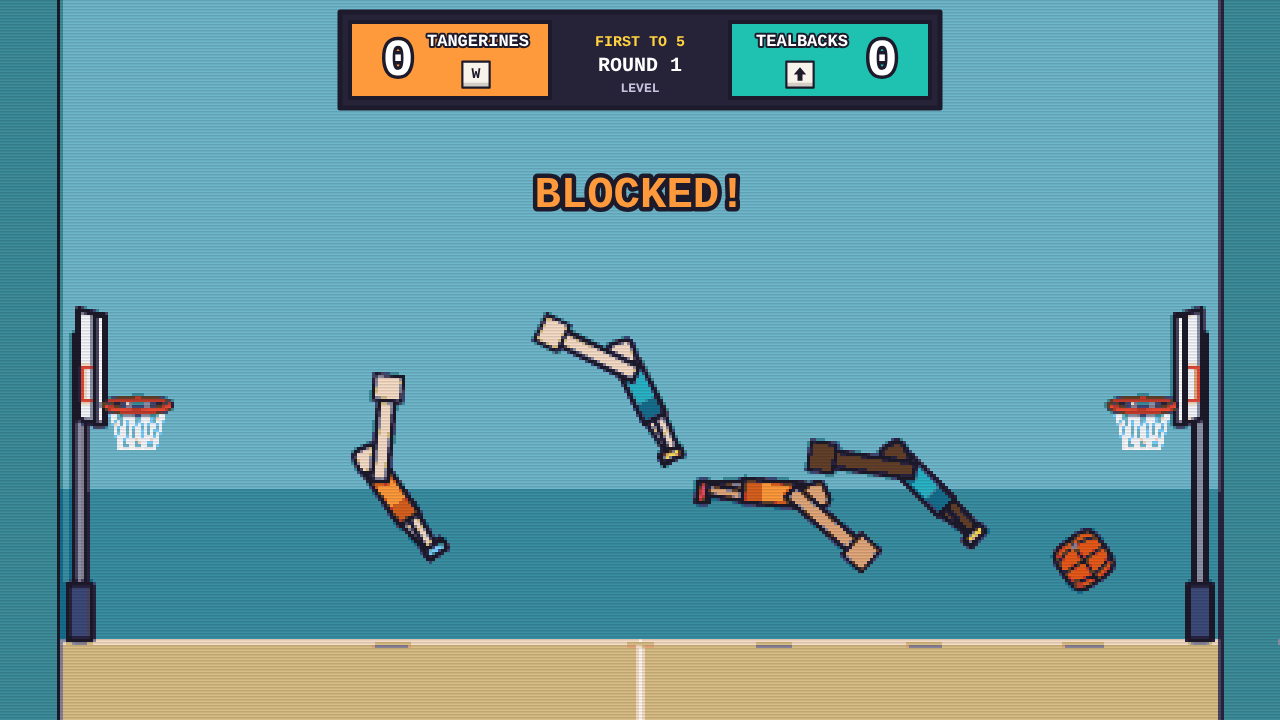
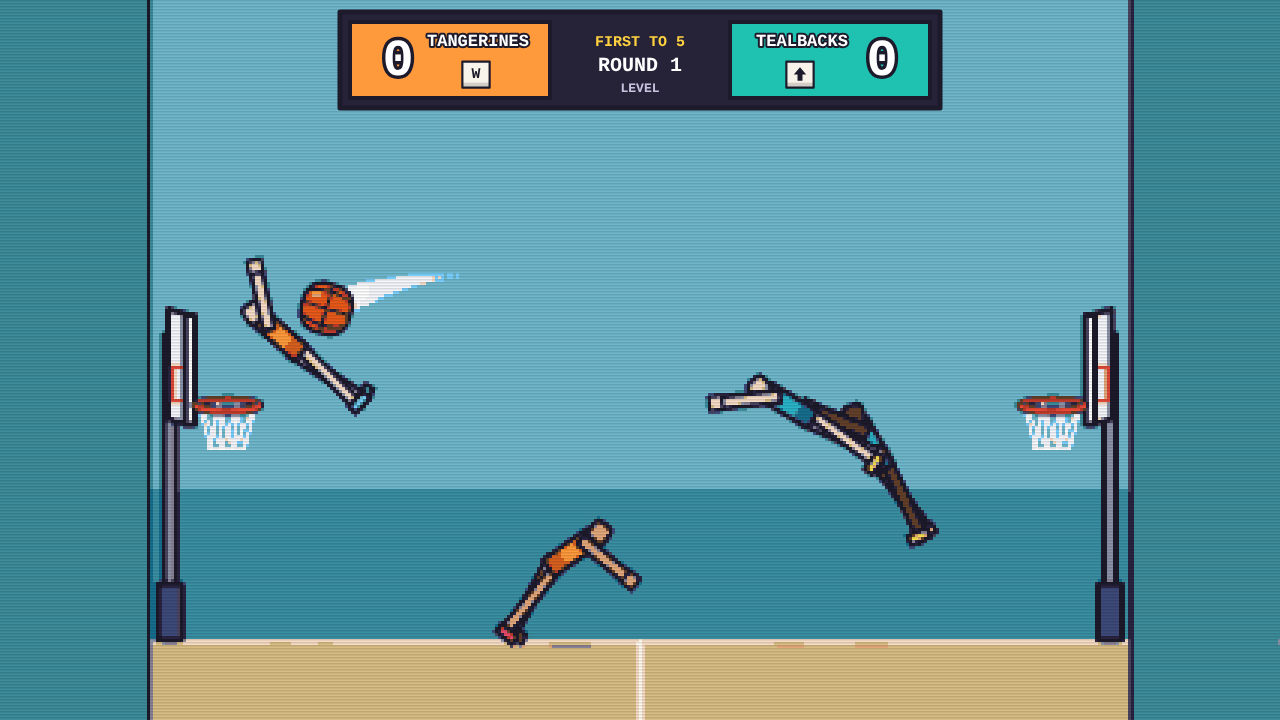
iteration 4: 6ft6 proportions, rounder ball, narrower court; iteration 2 shots back
Brief: design/game-brief.md

Also: shorter arms (+4 in wingspan), smaller hands, hoop size held at 65 px.

Claude-Session: https://claude.ai/code/session_01JSgNr6WUAfnQ9VaCvmLX1X

diff --git a/prototypes/flop-hoops/config.js b/prototypes/flop-hoops/config.js
@@ -33,15 +33,15 @@ window.CONFIG = {
   regrab_delay: { value: 0.4, min: 0, max: 1.5, step: 0.05 },   // s before a player who let go can grab again
   belly_margin: { value: 6, min: 0, max: 30, step: 1 },          // px the abdomen catch reaches past the torso
   hand_box: { value: 78, min: 20, max: 120, step: 2 },          // px side of the square catch box around each hand
-  shot_charge_time: { value: 1, min: 0.2, max: 2.5, step: 0.05 }, // s of holding to reach full shot power
+  shot_charge_time: { value: 1.0, min: 0.2, max: 2.5, step: 0.05 }, // s of holding to reach full shot power
   hold_max: { value: 4, min: 1, max: 6, step: 0.1 },          // s a ball can be held before it fires itself
-  shot_vx_min: { value: 3, min: 0, max: 15, step: 0.5 },      // px/step forward speed on a quick release
-  shot_vx_max: { value: 13, min: 4, max: 24, step: 0.5 },       // px/step forward speed fully cocked
-  shot_vy_min: { value: 9.5, min: 4, max: 20, step: 0.5 },       // px/step upward speed on a quick release
-  shot_vy_max: { value: 11, min: 4, max: 22, step: 0.5 },       // px/step upward speed fully cocked (barely more)
-  fade_vy_bonus: { value: 2, min: 0, max: 8, step: 0.5 },     // px/step extra loft on a fadeaway
+  shot_vx_min: { value: 3.5, min: 0, max: 15, step: 0.5 },      // px/step forward speed on a quick release
+  shot_vx_max: { value: 14, min: 4, max: 24, step: 0.5 },       // px/step forward speed fully cocked
+  shot_vy_min: { value: 11, min: 4, max: 20, step: 0.5 },       // px/step upward speed on a quick release
+  shot_vy_max: { value: 13, min: 4, max: 22, step: 0.5 },       // px/step upward speed fully cocked (barely more)
+  fade_vy_bonus: { value: 2.5, min: 0, max: 8, step: 0.5 },     // px/step extra loft on a fadeaway
   fade_vx_mul: { value: 0.9, min: 0.5, max: 1.3, step: 0.05 },  // fadeaway forward speed multiplier
-  shot_tilt: { value: 0.15, min: 0, max: 1.5, step: 0.05 },      // how much body lean bends the arc
+  shot_tilt: { value: 0.5, min: 0, max: 1.5, step: 0.05 },      // how much body lean bends the arc
   shot_assist: { value: 0.25, min: 0, max: 1, step: 0.05 },     // pull toward a speed that reaches the rim
   fade_assist: { value: 0.6, min: 0, max: 1, step: 0.05 },      // a fadeaway's extra aim help
   fade_speed: { value: 0.8, min: 0, max: 5, step: 0.1 },        // px/step drifting away from the hoop that counts
@@ -68,11 +68,13 @@ window.CONFIG = {
   rock_follow: { value: 0.6, min: 0.05, max: 1, step: 0.05 },   // how tightly a planted body tracks its swing
   getup_time: { value: 0.7, min: 0.1, max: 3, step: 0.05 },     // s lying down before springing back up
   getup_pop: { value: 7, min: 0, max: 15, step: 0.5 },          // px/step upward pop when getting up
-  body_width: { value: 24, min: 12, max: 50, step: 1 },         // px torso width
+  body_width: { value: 20, min: 12, max: 50, step: 1 },         // px torso width
   limb_width: { value: 11, min: 5, max: 20, step: 1 },          // px leg width (arms are 0.8 of it)
-  arm_width: { value: 16, min: 6, max: 30, step: 1 },           // px arm thickness
-  head_size: { value: 14, min: 8, max: 30, step: 1 },           // px head half-size
-  arm_length: { value: 92, min: 40, max: 140, step: 2 },        // px arm length
+  arm_width: { value: 12, min: 6, max: 30, step: 1 },           // px arm thickness
+  head_size: { value: 11, min: 8, max: 30, step: 1 },           // px head half-size
+  arm_length: { value: 64, min: 40, max: 140, step: 2 },        // px shoulder to fingertip: an 82" wingspan less the shoulders, halved
+  torso_length: { value: 54, min: 30, max: 90, step: 1 },       // px hip to shoulder (a 6 ft 6 in player at about 2 px per inch)
+  leg_length: { value: 88, min: 40, max: 120, step: 1 },        // px floor to hip
   upright_damp: { value: 3.5, min: 0, max: 15, step: 0.5 },    // 1/s damping on torso spin
   leg_stiffness: { value: 0.22, min: 0, max: 1, step: 0.01 },  // how hard legs swing back under the hips
   leg_follow: { value: 0.3, min: 0, max: 1, step: 0.05 },      // 0 floppy legs, 1 rigid legs
@@ -83,6 +85,7 @@ window.CONFIG = {
 
   // ---- Ball ----
   ball_radius: { value: 25, min: 16, max: 60, step: 1 },       // px
+  ball_shape: { value: 2.6, min: 2, max: 5, step: 0.1 },        // ball outline exponent: 2 round, 4 squircle
   ball_bounce: { value: 0.8, min: 0.3, max: 0.98, step: 0.01 },// restitution
   ball_mass: { value: 1.3, min: 0.3, max: 5, step: 0.1 },      // Matter mass units
   ball_kick: { value: 2.6, min: 0, max: 8, step: 0.1 },        // px/step extra pop off any body hit
@@ -93,9 +96,9 @@ window.CONFIG = {
   drop_height: { value: 430, min: 200, max: 520, step: 10 },   // px above the floor the ball drops from
 
   // ---- Court ----
-  court_width: { value: 1160, min: 900, max: 1240, step: 10 }, // px
+  court_width: { value: 980, min: 900, max: 1240, step: 10 }, // px
   rim_height: { value: 235, min: 200, max: 420, step: 5 },     // px from floor to rim
-  rim_span_min: { value: 58, min: 60, max: 160, step: 2 },     // px rim opening (grows with the ball)
+  rim_span_min: { value: 65, min: 60, max: 160, step: 2 },     // px rim opening (grows with the ball)
   rim_ball_ratio: { value: 1.3, min: 1.05, max: 2, step: 0.05 }, // rim opening as a multiple of the ball's width
   board_height: { value: 110, min: 60, max: 200, step: 5 },    // px backboard height
   board_inset: { value: 40, min: 20, max: 120, step: 2 },      // px from side wall to backboard

diff --git a/prototypes/flop-hoops/js/physics.js b/prototypes/flop-hoops/js/physics.js
@@ -27,12 +27,15 @@ const Physics = (() => {
       { isStatic: true, friction: 0.8, restitution: 0.1, collisionFilter: staticFilter }, extra)), kind);
   }
 
-  /** Points of a squircle (superellipse, exponent 4) of half-size r, for the ball's body and drawing. */
-  function squircle(r, n = 28) {
-    const pts = [];
+  /**
+   * Points of a superellipse of half-size r: exponent e = 2 is a circle, 4 a squircle. Used for
+   * the ball's body and for drawing the ball and heads.
+   */
+  function squircle(r, n = 28, e = 4) {
+    const pts = [], k = 2 / e;
     for (let i = 0; i < n; i++) {
       const t = (i / n) * Math.PI * 2, c = Math.cos(t), s = Math.sin(t);
-      pts.push({ x: r * Math.sign(c) * Math.sqrt(Math.abs(c)), y: r * Math.sign(s) * Math.sqrt(Math.abs(s)) });
+      pts.push({ x: r * Math.sign(c) * Math.abs(c) ** k, y: r * Math.sign(s) * Math.abs(s) ** k });
     }
     return pts;
   }
@@ -41,8 +44,8 @@ const Physics = (() => {
   function makePlayer(x, team, idx, S, look, T) {
     const dir = team === 0 ? 1 : -1;
     const d = {
-      torsoW: T.body_width, torsoH: 62 * S.torso, headR: T.head_size * S.head,
-      legL: 52 * S.leg, legW: T.limb_width, armL: T.arm_length * S.arm, armW: T.arm_width,
+      torsoW: T.body_width, torsoH: T.torso_length * S.torso, headR: T.head_size * S.head,
+      legL: T.leg_length * S.leg, legW: T.limb_width, armL: T.arm_length * S.arm, armW: T.arm_width,
     };
     d.headS = d.headR * 1.8;   // squircle head, side length
     const hipY = FLOOR_Y - d.legL + 3;
@@ -120,7 +123,7 @@ const Physics = (() => {
     }
 
     // a squircle ball: it rolls with a slight lumpy wobble
-    w.ball = tag(Bodies.fromVertices(CX, FLOOR_Y - T.drop_height, [squircle(S.ballR)], { restitution: S.bounce,
+    w.ball = tag(Bodies.fromVertices(CX, FLOOR_Y - T.drop_height, [squircle(S.ballR, 28, T.ball_shape)], { restitution: S.bounce,
       friction: 0.05, frictionStatic: 0.1, frictionAir: T.ball_air,
       collisionFilter: { group: 0, category: CAT.BALL, mask: CAT.STATIC | CAT.TEAM0 | CAT.TEAM1 } }), 'ball');
     w.ball.r = S.ballR;
@@ -345,7 +348,7 @@ const Physics = (() => {
     const disc = vy * vy - 2 * g * Y;
     if (X > 30 && disc > 0) vx = lerp(vx, X / ((vy + Math.sqrt(disc)) / g), fade ? T.fade_assist : T.shot_assist);
     // the body's lean turns the throw with it: tipped forward flattens it, leaning back lofts it
-    const tilt = clamp(a * T.shot_tilt, -0.25, 0.25), ct = Math.cos(tilt), st = Math.sin(tilt);
+    const tilt = a * T.shot_tilt, ct = Math.cos(tilt), st = Math.sin(tilt);
     const x0 = vx * p.dir, y0 = -vy;
     release(w, T, 0.2);
     Body.setVelocity(ball, { x: x0 * ct - y0 * st + p.torso.velocity.x * 0.25, y: x0 * st + y0 * ct });

diff --git a/prototypes/flop-hoops/js/render.js b/prototypes/flop-hoops/js/render.js
@@ -101,8 +101,8 @@ const Render = (() => {
   }
 
   /** A squircle path (superellipse, exponent 4) of half-size r around the origin. */
-  function squirclePath(ctx, r) {
-    const pts = Physics.squircle(r, 32);
+  function squirclePath(ctx, r, e = 4) {
+    const pts = Physics.squircle(r, 32, e);
     ctx.beginPath(); pts.forEach((q, i) => i ? ctx.lineTo(q.x, q.y) : ctx.moveTo(q.x, q.y)); ctx.closePath();
   }
 
@@ -136,7 +136,7 @@ const Render = (() => {
 
     ctx.save(); ctx.translate(A.x, A.y); ctx.rotate(A.a);
     ctx.beginPath(); ctx.rect(-d.armW / 2, -d.armL / 2, d.armW, d.armL); ink(ctx, look.skin, 5);
-    ctx.beginPath(); ctx.rect(-d.armW * 0.9, d.armL / 2 - d.armW * 0.7, d.armW * 1.8, d.armW * 1.6); ink(ctx, look.skin, 4);
+    ctx.beginPath(); ctx.rect(-d.armW * 0.6, d.armL / 2 - d.armW * 0.5, d.armW * 1.2, d.armW * 1.1); ink(ctx, look.skin, 4); // a small hand
     ctx.restore();
   }
 
@@ -145,8 +145,9 @@ const Render = (() => {
   function ball(ctx, x, y, r, a, withShadow = true) {
     if (withShadow) shadow(ctx, x, y, r);
     ctx.save(); ctx.translate(x, y); ctx.rotate(a);
-    squirclePath(ctx, r); ink(ctx, '#e8591a', Math.max(4, r * 0.18));
-    squirclePath(ctx, r - 1); ctx.save(); ctx.clip();
+    const e = CONFIG.ball_shape.value;
+    squirclePath(ctx, r, e); ink(ctx, '#e8591a', Math.max(4, r * 0.18));
+    squirclePath(ctx, r - 1, e); ctx.save(); ctx.clip();
     ctx.strokeStyle = INK; ctx.lineWidth = Math.max(3, r * 0.12);
     ctx.beginPath(); ctx.moveTo(-r, 0); ctx.lineTo(r, 0); ctx.moveTo(0, -r); ctx.lineTo(0, r);
     ctx.moveTo(-r * 0.45, -r); ctx.quadraticCurveTo(-r * 0.95, 0, -r * 0.45, r);

diff --git a/design/game-brief.md b/design/game-brief.md
@@ -21,6 +21,9 @@ After play: create a hitbox that surrounds the hand of the character, if more th
 
 After play: shorten the height of the rims, and remove all modifiers. make the heads smaller. make it much more retro without as much detail, specifically the background, keep it simplistic like the jerseys. have the ball have a white trail on firing. The trail should be a rainbow if it is perfectly alligned with the goal. Make the firing a bit slower, and the arms beefier now. allow for backwards swinging, the characters should be pivoting off their foot, but swinging both left to right, not only middle to right and slowly slowing down, it should never be slowing down. add some more features you deem fit. the characters are not picking up the balls consistently currently.
 
+After play: make the ball rounder, the hands smaller, the arms shorter, make the court smaller, basketball hoop is of good size. bring ball mechanics back to what they were like earlier. make the human proportions seem to be of someone of about 6'6 height, with +4 wingspan.
+Answer: Which earlier ball mechanics: Iteration 2 shots.
+
 **Pitch:** Two wobbly ragdoll ballers a side, one jump key each, swinging on their feet and hurling a squircle ball.
 
 **Genre:** arcade sports (floppy physics sport)
@@ -34,7 +37,7 @@ After play: shorten the height of the rims, and remove all modifiers. make the h
 **Intent:** needs 2 players *(you said)*
 
 ## Look and references
-- Look: really retro: the court drawn at low resolution, snapped to each round's small palette and scaled up under scanlines, with a monospace square-cornered HUD; flat plain backgrounds (sky, one horizon band, floor, centre line); slim faceless characters with small squircle heads, long beefy arms and plain shirts; a squircle ball with a white trail when fired (rainbow on a perfect line); small, low hoops; thick dark outlines; tangerine vs teal teams; a bright orange seamed ball; each round a new venue (school gym, dusk rooftop, beach, night street court) in its own two-tone palette, background darker and calmer than play; signature: the rainbow trail of a perfectly lined-up shot. Every figure drawn, no emoji, no plain circles. *(inferred (strong))*
+- Look: really retro: the court drawn at low resolution, snapped to each round's small palette and scaled up under scanlines, with a monospace square-cornered HUD; flat plain backgrounds (sky, one horizon band, floor, centre line); slim faceless characters built like a 6 ft 6 in player with a +4 in wingspan (long legs, small squircle heads, small hands, plain shirts); a rounded ball with a white trail when fired (rainbow on a perfect line); hoops kept at their size (65 px rim, 10 ft high) on a narrower court; thick dark outlines; tangerine vs teal teams; a bright orange seamed ball; each round a new venue (school gym, dusk rooftop, beach, night street court) in its own two-tone palette, background darker and calmer than play; signature: the rainbow trail of a perfectly lined-up shot. Every figure drawn, no emoji, no plain circles. *(inferred (strong))*
 - References: the floppy one-button basketball genre (Basket Random and others) for its feel only: one-key jumps, ragdoll chaos, random rounds.
 - View: 2D side view · Camera: static, whole court visible, scaled to the window.
 
@@ -66,6 +69,7 @@ Every touch is contested from second one: the skill is timing your hop against t
 - [x] Dunks near the rim, fadeaways when drifting or leaning away, blocks and steals by defenders
 - [x] Only opponents collide; teammates pass through each other
 - [x] Planted players pivot on their feet, swinging evenly forward and back at a beat that never fades; fallen players get back up
+- [x] Shots as in iteration 2: forward 3.5-14, up 11-13, 1 s cock-back, body lean bends the throw
 - [x] Slower game speed; players eased apart so they never pile into one blob
 - [x] Fired ball trail: white, rainbow with a PERFECT! callout when lined up with the rim
 - [x] SWISH and PERFECT SWISH baskets; HUSTLE higher jumps for a team 2+ points behind; pickup flash

diff --git a/prototypes/flop-hoops/brief.md b/prototypes/flop-hoops/brief.md
@@ -21,6 +21,9 @@ After play: create a hitbox that surrounds the hand of the character, if more th
 
 After play: shorten the height of the rims, and remove all modifiers. make the heads smaller. make it much more retro without as much detail, specifically the background, keep it simplistic like the jerseys. have the ball have a white trail on firing. The trail should be a rainbow if it is perfectly alligned with the goal. Make the firing a bit slower, and the arms beefier now. allow for backwards swinging, the characters should be pivoting off their foot, but swinging both left to right, not only middle to right and slowly slowing down, it should never be slowing down. add some more features you deem fit. the characters are not picking up the balls consistently currently.
 
+After play: make the ball rounder, the hands smaller, the arms shorter, make the court smaller, basketball hoop is of good size. bring ball mechanics back to what they were like earlier. make the human proportions seem to be of someone of about 6'6 height, with +4 wingspan.
+Answer: Which earlier ball mechanics: Iteration 2 shots.
+
 **Pitch:** Two wobbly ragdoll ballers a side, one jump key each, swinging on their feet and hurling a squircle ball.
 
 **Genre:** arcade sports (floppy physics sport)
@@ -34,7 +37,7 @@ After play: shorten the height of the rims, and remove all modifiers. make the h
 **Intent:** needs 2 players *(you said)*
 
 ## Look and references
-- Look: really retro: the court drawn at low resolution, snapped to each round's small palette and scaled up under scanlines, with a monospace square-cornered HUD; flat plain backgrounds (sky, one horizon band, floor, centre line); slim faceless characters with small squircle heads, long beefy arms and plain shirts; a squircle ball with a white trail when fired (rainbow on a perfect line); small, low hoops; thick dark outlines; tangerine vs teal teams; a bright orange seamed ball; each round a new venue (school gym, dusk rooftop, beach, night street court) in its own two-tone palette, background darker and calmer than play; signature: the rainbow trail of a perfectly lined-up shot. Every figure drawn, no emoji, no plain circles. *(inferred (strong))*
+- Look: really retro: the court drawn at low resolution, snapped to each round's small palette and scaled up under scanlines, with a monospace square-cornered HUD; flat plain backgrounds (sky, one horizon band, floor, centre line); slim faceless characters built like a 6 ft 6 in player with a +4 in wingspan (long legs, small squircle heads, small hands, plain shirts); a rounded ball with a white trail when fired (rainbow on a perfect line); hoops kept at their size (65 px rim, 10 ft high) on a narrower court; thick dark outlines; tangerine vs teal teams; a bright orange seamed ball; each round a new venue (school gym, dusk rooftop, beach, night street court) in its own two-tone palette, background darker and calmer than play; signature: the rainbow trail of a perfectly lined-up shot. Every figure drawn, no emoji, no plain circles. *(inferred (strong))*
 - References: the floppy one-button basketball genre (Basket Random and others) for its feel only: one-key jumps, ragdoll chaos, random rounds.
 - View: 2D side view · Camera: static, whole court visible, scaled to the window.
 
@@ -66,6 +69,7 @@ Every touch is contested from second one: the skill is timing your hop against t
 - [x] Dunks near the rim, fadeaways when drifting or leaning away, blocks and steals by defenders
 - [x] Only opponents collide; teammates pass through each other
 - [x] Planted players pivot on their feet, swinging evenly forward and back at a beat that never fades; fallen players get back up
+- [x] Shots as in iteration 2: forward 3.5-14, up 11-13, 1 s cock-back, body lean bends the throw
 - [x] Slower game speed; players eased apart so they never pile into one blob
 - [x] Fired ball trail: white, rainbow with a PERFECT! callout when lined up with the rim
 - [x] SWISH and PERFECT SWISH baskets; HUSTLE higher jumps for a team 2+ points behind; pickup flash
